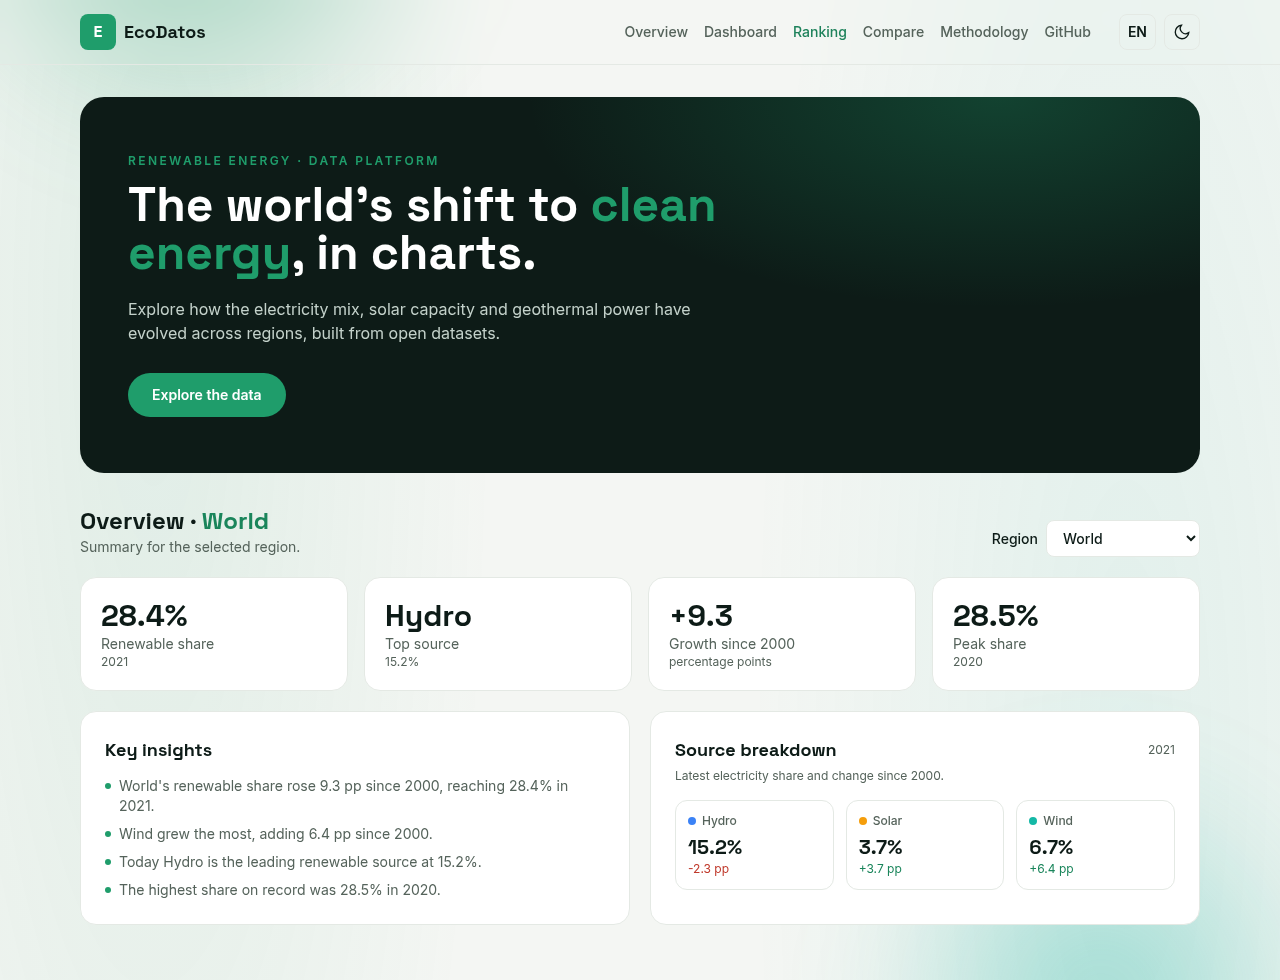
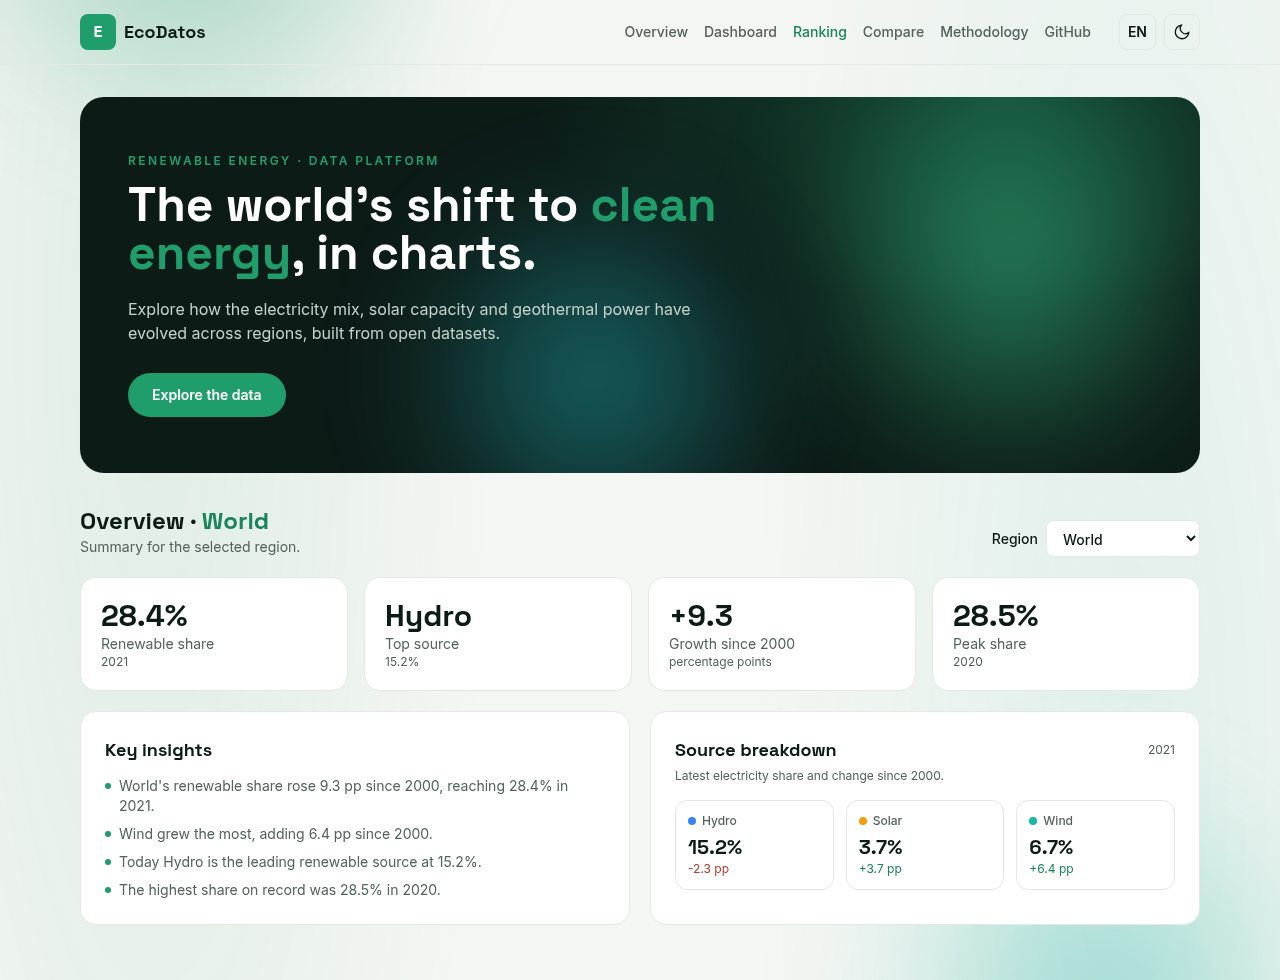
feat: add a moving glow inside the hero for clearly felt motion

Changed region(s): [[0.6562, 0.0918, 0.9375, 0.4592], [0.3438, 0.2449, 0.5938, 0.4898]]

diff --git a/index.html b/index.html
@@ -115,12 +115,27 @@
         40% { transform: translate3d(-200px, -140px, 0) scale(1); opacity: 0.95; }
         75% { transform: translate3d(-120px, 180px, 0) scale(1.2); opacity: 0.85; }
       }
-      .bg-paused .bg-anim span { animation-play-state: paused; }
+      .bg-paused .bg-anim span, .bg-paused .hero-orb { animation-play-state: paused; }
+
+      /* Animated glow inside the hero panel — clearly visible against the dark backdrop */
+      .hero-orb { position: absolute; border-radius: 50%; filter: blur(48px); pointer-events: none; will-change: transform, opacity; }
+      .hero-orb-1 { width: 46%; aspect-ratio: 1; right: -6%; top: -26%;
+        background: radial-gradient(circle at 50% 50%, rgba(53, 196, 137, 0.60), transparent 64%); animation: heroA 14s ease-in-out infinite; }
+      .hero-orb-2 { width: 40%; aspect-ratio: 1; left: 26%; bottom: -34%;
+        background: radial-gradient(circle at 50% 50%, rgba(33, 178, 185, 0.50), transparent 64%); animation: heroB 18s ease-in-out infinite; }
+      @keyframes heroA {
+        0%, 100% { transform: translate3d(0, 0, 0) scale(1); opacity: 0.7; }
+        50% { transform: translate3d(-150px, 90px, 0) scale(1.25); opacity: 1; }
+      }
+      @keyframes heroB {
+        0%, 100% { transform: translate3d(0, 0, 0) scale(1.1); opacity: 0.55; }
+        50% { transform: translate3d(170px, -70px, 0) scale(1); opacity: 0.95; }
+      }
 
       .reveal { opacity: 0; transform: translateY(10px); transition: opacity 0.5s ease, transform 0.5s ease; }
       body.ready .reveal { opacity: 1; transform: none; }
       @media (prefers-reduced-motion: reduce) {
-        .bg-anim span { animation: none; }
+        .bg-anim span, .hero-orb { animation: none; }
         .reveal { opacity: 1; transform: none; transition: none; }
         .skeleton { animation: none; }
         * { scroll-behavior: auto; }
@@ -170,6 +185,8 @@
     <main class="mx-auto max-w-6xl px-4" id="top">
       <section class="reveal relative overflow-hidden rounded-3xl my-8 px-6 py-14 sm:px-12" style="background: var(--hero-bg); color: var(--hero-text);">
         <div class="absolute inset-0" aria-hidden="true" style="background: radial-gradient(60% 80% at 82% 0%, var(--blob), transparent 70%);"></div>
+        <span class="hero-orb hero-orb-1" aria-hidden="true"></span>
+        <span class="hero-orb hero-orb-2" aria-hidden="true"></span>
         <div class="relative max-w-2xl">
           <p class="mb-3 text-xs font-semibold uppercase tracking-[0.2em] text-[var(--accent)]" data-i18n="hero.eyebrow">Renewable energy · data platform</p>
           <h1 class="font-display text-4xl font-bold leading-tight sm:text-5xl" data-i18n="hero.title" data-i18n-html>The world's shift to clean energy, in charts.</h1>
